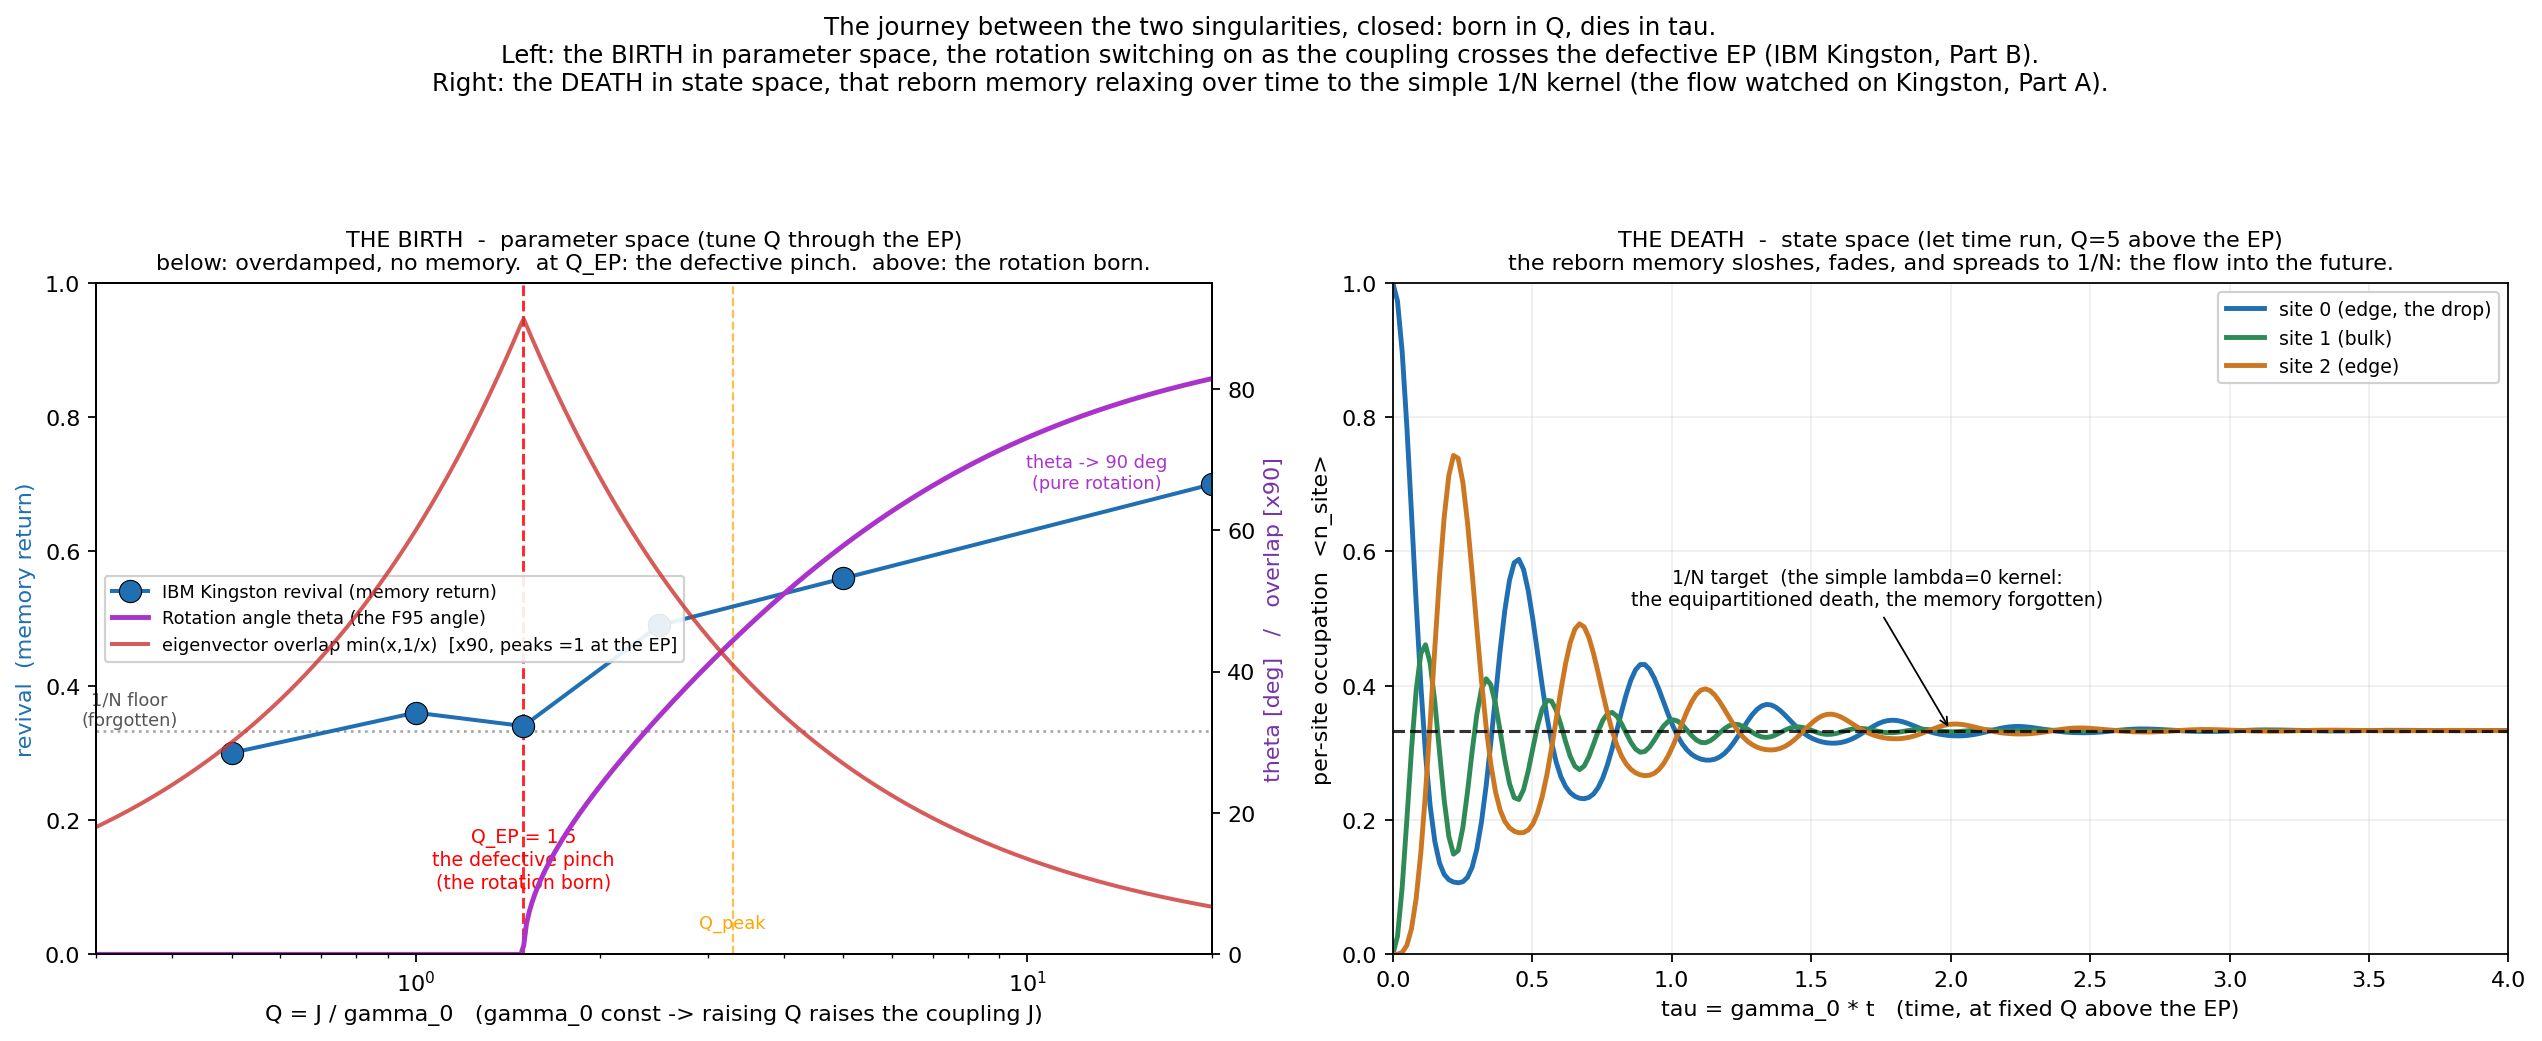
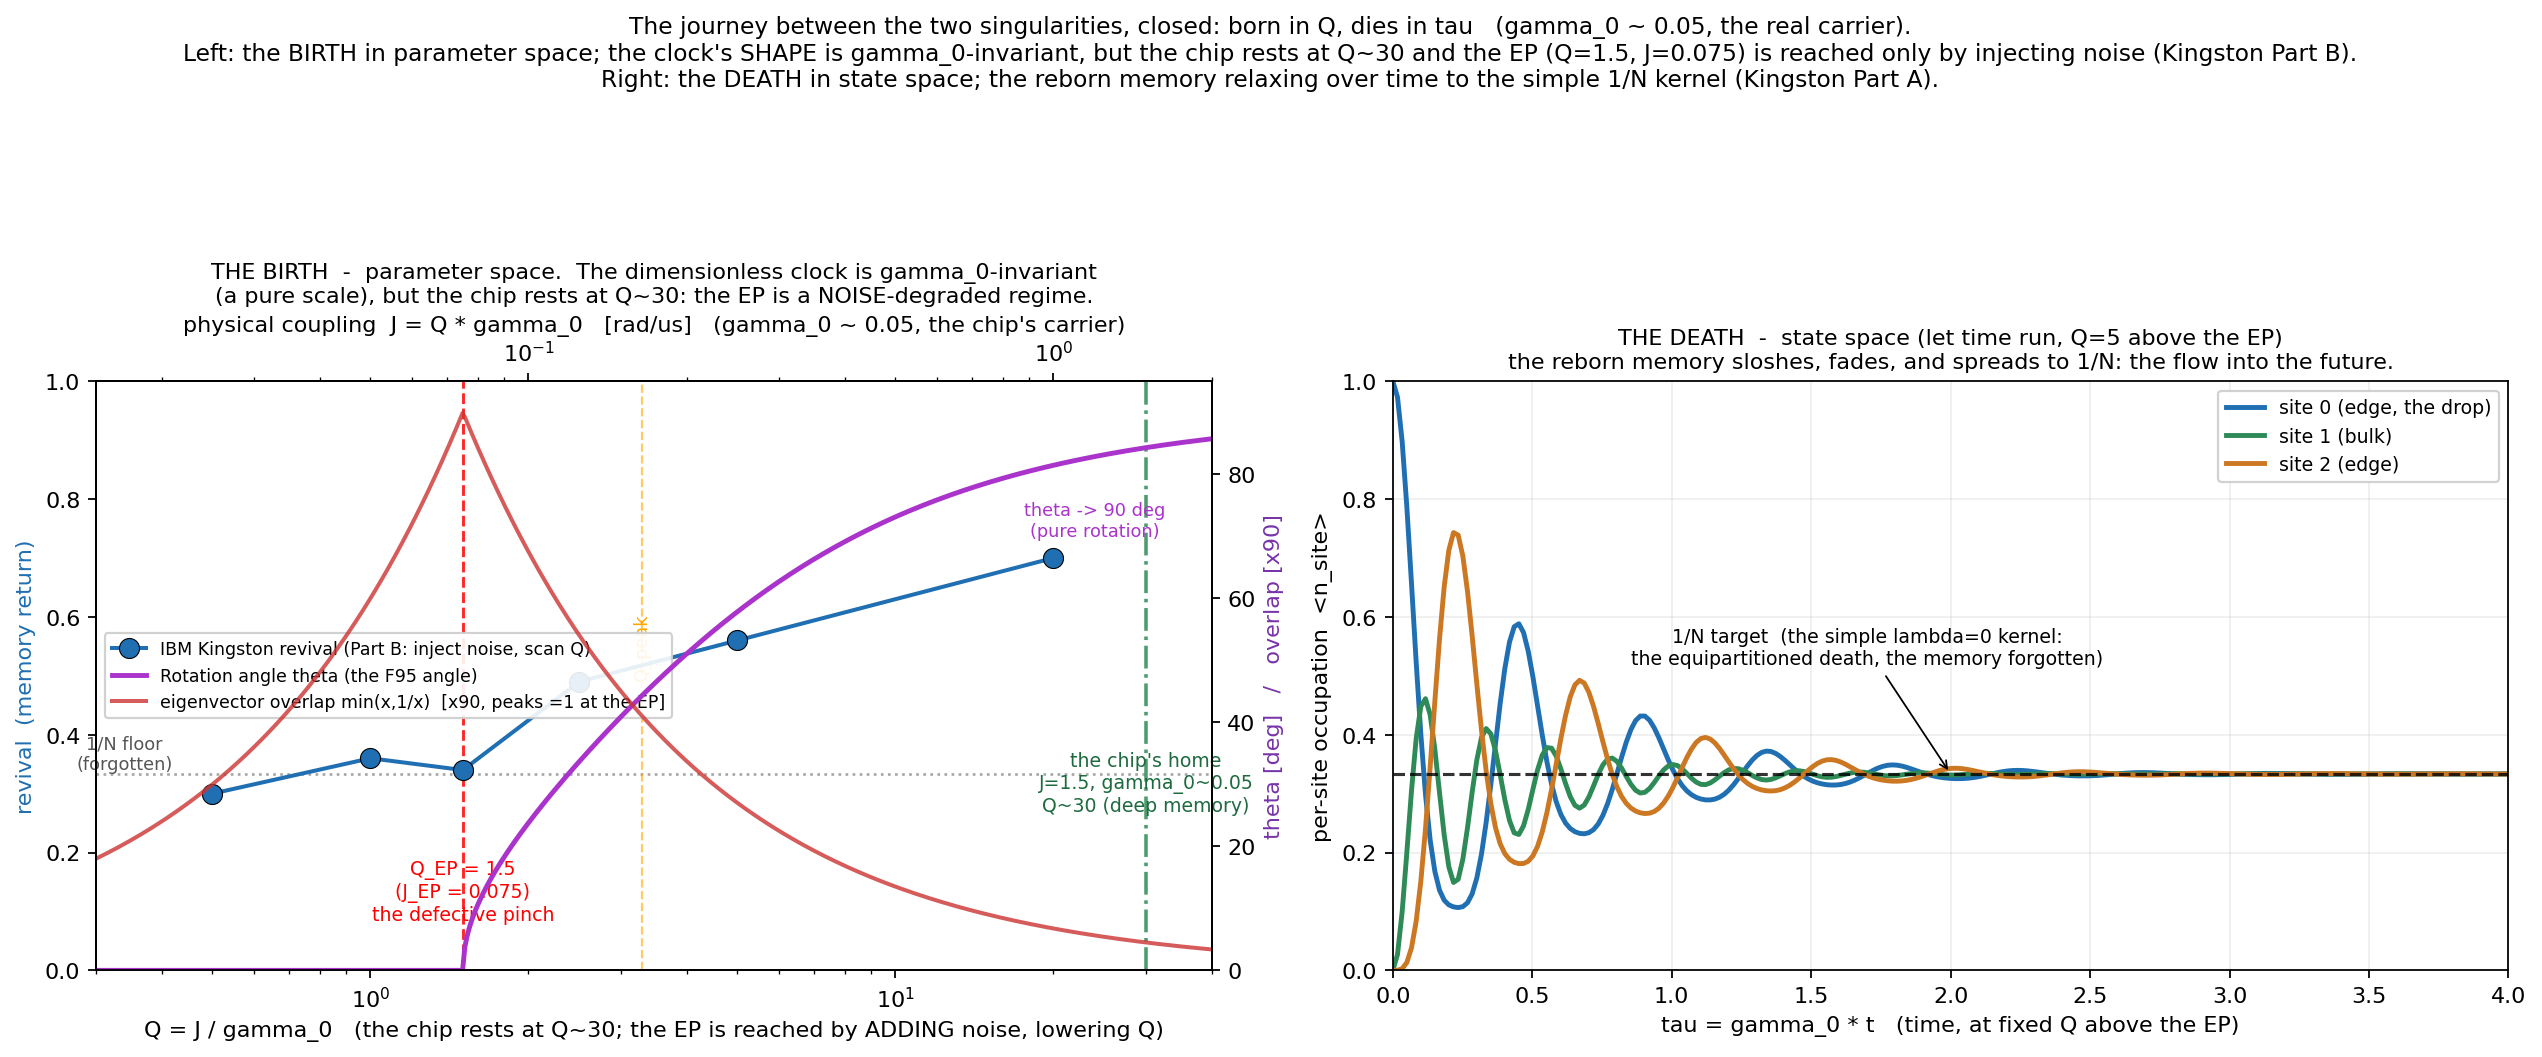
fix: use the real carrier gamma0=0.05 in the journey (the scale gamma0=1 hid)
Tom caught it: gamma0=1.0 was a toy value that buried the physical scale. At
gamma0=1 the coupling J equals Q numerically, so J_EP = Q_EP*gamma0 = 1.5 lands
exactly on the chip's coupling J=1.5 and reads falsely as "the chip sits on the
EP". With the real carrier gamma0~0.05: J_EP = 0.075, and the chip (J=1.5) sits
at Q ~ 30, deep above the EP. The chip lives in the deep-memory regime; the EP is
reached only by injecting noise (Part B's downward Q-scan). Verified directly that
the dimensionless clock (theta, overlap, the flow vs tau) is bit-identical at
gamma0=1.0 and 0.05: gamma0 is a pure scale, the journey's SHAPE is carrier-
invariant, only the physical position moves. Figure now carries a physical-J top
axis and marks the chip's home at Q~30; the doc's "Seen again" layer gains the
scale correction and the honest "the chip is not at the EP" seam.

diff --git a/simulations/journey_between_singularities.py b/simulations/journey_between_singularities.py
@@ -5,23 +5,23 @@ THE_FLOW_BETWEEN_TWO_SINGULARITIES says the flow is bracketed by two singulariti
 of DIFFERENT kinds, and that difference is the whole point:
 
   - the EP (the BIRTH): parameter space, at Q_EP = 2/g_eff = 1.5, DEFECTIVE (a Jordan
-    block, the two slow eigenvectors coalesce, the Petermann sensitivity diverges). You
-    reach it by tuning the coupling: gamma_0 is the universal carrier and stays constant,
-    so raising Q = J/gamma_0 means raising J. Below it: overdamped, no memory (the revival
-    sits on the 1/N floor). Above it: the rotation is born, the memory sloshes back.
+    block, the two slow eigenvectors coalesce, the Petermann sensitivity diverges). Below
+    it: overdamped, no memory (the revival sits on the 1/N floor). Above it: the rotation
+    is born, the memory sloshes back.
 
   - the target (the DEATH): state space, the 1/N equipartitioned fixed point, SIMPLE (the
-    lambda = 0 kernel of L). You reach it by letting TIME run at a fixed Q above the EP: the
+    lambda = 0 kernel of L). Reached by letting TIME run at a fixed Q above the EP: the
     reborn memory sloshes, fades, and the excitation spreads to 1/N per site.
 
-So the journey is not a single 1D path. It is born in Q (parameter space, the defective
-EP) and dies in tau (state space, the simple 1/N kernel). This script draws both legs on
-one canvas, with both hardware halves (IBM Kingston, 2026-05-31): Part B (revival vs Q, the
-birth) on the left, Part A (the population flow to 1/N, the death) on the right.
-
-The closed forms sit at the two endpoints; the middle of the second leg is the un-closed-form
-loop. We close the ARC (both legs, both singularities, both hardware halves in one view); the
-deep reading of the middle stays parked, per the experiment doc.
+The carrier gamma_0 is REAL: ~0.05 on the chip, not the toy 1.0. That matters here. Q_EP =
+2/g_eff = 1.5 is gamma_0-invariant (J = Q*gamma_0 cancels it), and so is the whole
+dimensionless clock (theta, the eigenvector overlap, the flow vs tau): gamma_0 is a pure
+SCALE, the journey's SHAPE does not depend on it. But the physical coupling does: J_EP =
+Q_EP*gamma_0 = 0.075, while the chip runs at J = 1.5 rad/us, i.e. Q = J/gamma_0 ~ 30, deep
+above the EP. Setting gamma_0 = 1 hides this by forcing J = Q, which makes J_EP = 1.5
+coincide with the chip's J = 1.5 and falsely reads as "the chip sits on the EP". It does not:
+the chip lives in the deep-memory regime, and the EP is reached only by INJECTING noise
+(Part B pushed Q down from ~30 toward 1.5). That is the important thing the toy value buried.
 
 Produces: simulations/results/journey_between_singularities/journey.png
 """
@@ -39,24 +39,27 @@ if sys.platform == "win32":
     sys.stdout.reconfigure(encoding="utf-8", errors="replace")
 
 # ----------------------------------------------------------------------------------------
-# Leg 1: the birth (parameter space, the Q-axis). The slow-pair effective Liouvillian.
+# The REAL scale. gamma_0 is the chip's carrier (~0.05), not the toy 1.0.
 # ----------------------------------------------------------------------------------------
-G0 = 1.0
-G_EFF = 4.0 / 3.0          # Q_EP = 2/g_eff = 1.5 (the c=2 peak orbit, matching the hardware)
+G0 = 0.05                       # the hardware carrier Gamma_0 ~ 0.05 (the real value)
+G_EFF = 4.0 / 3.0               # Q_EP = 2/g_eff = 1.5, gamma_0-invariant
 Q_EP = 2.0 / G_EFF
-X_PEAK = 2.196910329331    # C2BareDoubledPtfClosedForm resonance peak, in x = Q/Q_EP units
+X_PEAK = 2.196910329331         # C2BareDoubledPtfClosedForm resonance peak, in x = Q/Q_EP units
 Q_PEAK = X_PEAK * Q_EP
+J_HW = 1.5                      # the hardware coupling (rad/us), fixed; Part B injected gamma to scan Q
+Q_HOME = J_HW / G0              # the chip's natural operating point ~ 30 (deep memory, no injection)
 
 
-def l_eff(Q: float) -> np.ndarray:
-    J = Q * G0
-    return np.array([[-2.0 * G0, 1j * J * G_EFF],
-                     [1j * J * G_EFF, -6.0 * G0]], dtype=complex)
+def l_eff(Q: float, gamma0: float = G0) -> np.ndarray:
+    """The slow-pair effective Liouvillian at coupling Q (J = Q*gamma0, threaded honestly)."""
+    J = Q * gamma0
+    return np.array([[-2.0 * gamma0, 1j * J * G_EFF],
+                     [1j * J * G_EFF, -6.0 * gamma0]], dtype=complex)
 
 
-def clock(Q: float):
+def clock(Q: float, gamma0: float = G0):
     """(decay -Re lambda, omega |Im lambda|, theta deg, eigenvector overlap) of the slow mode."""
-    w, V = np.linalg.eig(l_eff(Q))
+    w, V = np.linalg.eig(l_eff(Q, gamma0))
     decay = -w.real
     omega = np.abs(w.imag)
     i = int(np.argmin(decay))                 # the slowest (longest-lived) mode
@@ -70,8 +73,9 @@ HW_Q = np.array([0.5, 1.0, 1.5, 2.5, 5.0, 20.0])
 HW_REV = np.array([0.30, 0.36, 0.34, 0.49, 0.56, 0.70])
 
 # ----------------------------------------------------------------------------------------
-# Leg 2: the death (state space, the tau-axis at a fixed Q above the EP). N=3 single
-# excitation, XY chain under Z-dephasing, the flow to 1/N. (gamma = 1, J = Q, tau = gamma*t.)
+# Leg 2: the death (state space). N=3 single excitation, XY chain under Z-dephasing,
+# the flow to 1/N. Read dimensionlessly (gamma_0-invariant): L'(Q) = -iQ[H_unit,.] +
+# Sum_l(Z_l rho Z_l - rho), tau = gamma_0 * t. (Any gamma_0 gives the same curve vs tau.)
 # ----------------------------------------------------------------------------------------
 I2 = np.eye(2, dtype=complex)
 X = np.array([[0, 1], [1, 0]], dtype=complex)
@@ -117,28 +121,35 @@ def flow_to_target(Q: float, N: int, taus: np.ndarray):
 
 
 def main() -> None:
-    print("=" * 80)
+    print("=" * 84)
     print(f"  THE JOURNEY  gamma0={G0}  g_eff={G_EFF:.4f}  Q_EP={Q_EP:.3f}  Q_peak={Q_PEAK:.3f}")
-    print("=" * 80)
+    print(f"  J_EP = Q_EP*gamma0 = {Q_EP * G0:.4f}   |   chip: J={J_HW} -> Q_home = J/gamma0 = {Q_HOME:.1f}")
+    print("=" * 84)
 
-    # ---- Leg 1: the birth, the full Q-axis to 20 (the stretch the EP scout did not reach) ----
-    print("\n  LEG 1 - the birth (parameter space, Q-axis), the closed-form clock:")
-    print(f"  {'Q':>6} {'x=Q/Q_EP':>9} {'decay':>7} {'omega':>7} {'theta':>7} {'overlap':>8}   regime")
-    Qs_table = [0.3, 0.5, 0.75, 1.0, 1.5, 2.5, Q_PEAK, 5.0, 10.0, 20.0]
-    for Q in Qs_table:
+    # ---- gamma_0-invariance check: the dimensionless clock is identical at 1.0 and 0.05 ----
+    print("\n  gamma_0-INVARIANCE of the clock (theta, overlap) vs Q -- the carrier is a pure scale:")
+    print(f"  {'Q':>6} | {'theta(g0=1.0)':>13} {'theta(g0=0.05)':>14} | {'overlap(1.0)':>12} {'overlap(0.05)':>13}")
+    for Q in (0.75, 1.5, 2.5, 5.0, 20.0):
+        _, _, th1, ov1 = clock(Q, 1.0)
+        _, _, th2, ov2 = clock(Q, 0.05)
+        print(f"  {Q:6.2f} | {th1:13.4f} {th2:14.4f} | {ov1:12.5f} {ov2:13.5f}")
+
+    # ---- Leg 1: the birth, the closed-form clock, with PHYSICAL J alongside Q ----
+    print("\n  LEG 1 - the birth (parameter space). Q, x=Q/Q_EP, physical J=Q*gamma0, the clock:")
+    print(f"  {'Q':>6} {'x':>6} {'J':>7} {'decay':>7} {'omega':>7} {'theta':>7} {'overlap':>8}   regime")
+    for Q in [0.3, 0.5, 0.75, 1.0, 1.5, 2.5, Q_PEAK, 5.0, 10.0, 20.0, Q_HOME]:
         d, w, th, ov = clock(Q)
         x = Q / Q_EP
+        J = Q * G0
         if Q < Q_EP - 1e-9:
-            reg = "overdamped (theta=0, pre-birth)"
+            reg = "overdamped (pre-birth)"
         elif abs(Q - Q_EP) < 1e-6:
-            reg = "THE EP (defective pinch, overlap=1)"
+            reg = "THE EP (defective pinch)"
+        elif abs(Q - Q_HOME) < 1e-6:
+            reg = "<- the chip's natural home (deep memory)"
         else:
-            reg = "rotation born (theta lifts, overlap falls)"
-        print(f"  {Q:6.2f} {x:9.3f} {d:7.3f} {w:7.3f} {th:7.1f} {ov:8.3f}   {reg}")
-
-    print("\n  Part B hardware revival (IBM Kingston, max <n_0> vs Q):")
-    for q, r in zip(HW_Q, HW_REV):
-        print(f"  Q={q:5.1f}  revival={r:.2f}   {'<= 1/N floor (forgotten)' if r < 0.40 else 'memory present'}")
+            reg = "rotation born"
+        print(f"  {Q:6.2f} {x:6.2f} {J:7.4f} {d:7.4f} {w:7.4f} {th:7.1f} {ov:8.3f}   {reg}")
 
     # ---- Leg 2: the death, the flow to 1/N at a representative Q above the EP ----
     N = 3
@@ -146,36 +157,42 @@ def main() -> None:
     taus = np.linspace(0.0, 4.0, 240)
     flow = flow_to_target(Q_death, N, taus)
     print(f"\n  LEG 2 - the death (state space, tau-axis), N={N}, Q={Q_death} (above the EP):")
-    print(f"  {'tau':>6} " + " ".join(f"<n{l}>" for l in range(N)))
     for tau in (0.0, 0.2, 0.5, 1.0, 2.0, 4.0):
         j = int(np.argmin(np.abs(taus - tau)))
-        print(f"  {taus[j]:6.2f} " + " ".join(f"{flow[l, j]:5.3f}" for l in range(N)))
-    print(f"  target 1/N = {1.0 / N:.4f} (every site converges here: the equipartitioned death)")
+        print(f"  tau={taus[j]:5.2f}  " + " ".join(f"<n{l}>={flow[l, j]:5.3f}" for l in range(N)))
+    print(f"  target 1/N = {1.0 / N:.4f}  (the chip's home Q~{Q_HOME:.0f} sloshes far longer, same arc)")
 
     # ====================================================================================
     # The figure: the two legs on one canvas
     # ====================================================================================
-    fig, (axL, axR) = plt.subplots(1, 2, figsize=(16, 6.5))
+    fig, (axL, axR) = plt.subplots(1, 2, figsize=(16, 6.6))
 
-    # ---- Panel A (left): the birth, parameter space, the Q-axis ----
-    Qc = np.logspace(np.log10(0.3), np.log10(20.0), 400)
+    # ---- Panel A (left): the birth, parameter space, the Q-axis (to the chip's home ~30) ----
+    Qc = np.logspace(np.log10(0.3), np.log10(40.0), 500)
     theta = np.array([clock(Q)[2] for Q in Qc])
     overlap = np.array([clock(Q)[3] for Q in Qc])
 
     axL.axhline(1.0 / 3.0, color="gray", ls=":", lw=1.2, alpha=0.7)
-    axL.plot(HW_Q, HW_REV, "o-", color="#1F6FB2", lw=1.8, markersize=10, markeredgecolor="black",
-             markeredgewidth=0.5, label="IBM Kingston revival (memory return)", zorder=5)
+    axL.plot(HW_Q, HW_REV, "o-", color="#1F6FB2", lw=1.8, markersize=9, markeredgecolor="black",
+             markeredgewidth=0.5, label="IBM Kingston revival (Part B: inject noise, scan Q)", zorder=5)
     axL.annotate("1/N floor\n(forgotten)", (0.34, 0.335), fontsize=8, color="#555", ha="center", va="bottom")
     axL.set_xscale("log")
-    axL.set_xlim(0.3, 20)
+    axL.set_xlim(0.3, 40)
     axL.set_ylim(0.0, 1.0)
-    axL.set_xlabel("Q = J / gamma_0   (gamma_0 const -> raising Q raises the coupling J)")
+    axL.set_xlabel("Q = J / gamma_0   (the chip rests at Q~30; the EP is reached by ADDING noise, lowering Q)")
     axL.set_ylabel("revival  (memory return)", color="#1F6FB2")
     axL.axvline(Q_EP, color="red", ls="--", lw=1.3, alpha=0.85)
-    axL.axvline(Q_PEAK, color="orange", ls="--", lw=1.0, alpha=0.7)
-    axL.annotate("Q_EP = 1.5\nthe defective pinch\n(the rotation born)", (1.5, 0.10), fontsize=8.5,
+    axL.axvline(Q_PEAK, color="orange", ls="--", lw=1.0, alpha=0.6)
+    axL.axvline(Q_HOME, color="#2E8B57", ls="-.", lw=1.6, alpha=0.85)
+    axL.annotate("Q_EP = 1.5\n(J_EP = 0.075)\nthe defective pinch", (1.5, 0.085), fontsize=8.5,
                  color="red", ha="center")
-    axL.annotate("Q_peak", (Q_PEAK, 0.04), fontsize=8, color="orange", ha="center")
+    axL.annotate("Q_peak", (Q_PEAK, 0.50), fontsize=8, color="orange", ha="center", rotation=90)
+    axL.annotate("the chip's home\nJ=1.5, gamma_0~0.05\nQ~30 (deep memory)", (30, 0.27), fontsize=8.5,
+                 color="#1d6b3f", ha="center")
+
+    # physical coupling J on a secondary top axis: J_EP=0.075 vs the chip's J=1.5 both visible
+    secax = axL.secondary_xaxis("top", functions=(lambda q: q * G0, lambda j: j / G0))
+    secax.set_xlabel("physical coupling  J = Q * gamma_0   [rad/us]   (gamma_0 ~ 0.05, the chip's carrier)")
 
     axLt = axL.twinx()
     axLt.plot(Qc, theta, "-", color="#AA33CC", lw=2.2, label="Rotation angle theta (the F95 angle)")
@@ -183,13 +200,13 @@ def main() -> None:
               label="eigenvector overlap min(x,1/x)  [x90, peaks =1 at the EP]")
     axLt.set_ylabel("theta [deg]   /   overlap [x90]", color="#7733AA")
     axLt.set_ylim(0, 95)
-    axLt.annotate("theta -> 90 deg\n(pure rotation)", (13.0, 66), fontsize=8, color="#AA33CC", ha="center")
+    axLt.annotate("theta -> 90 deg\n(pure rotation)", (24.0, 70), fontsize=8, color="#AA33CC", ha="center")
 
     lA, labA = axL.get_legend_handles_labels()
     lAt, labAt = axLt.get_legend_handles_labels()
-    axL.legend(lA + lAt, labA + labAt, loc="center left", fontsize=8, framealpha=0.9)
-    axL.set_title("THE BIRTH  -  parameter space (tune Q through the EP)\n"
-                  "below: overdamped, no memory.  at Q_EP: the defective pinch.  above: the rotation born.",
+    axL.legend(lA + lAt, labA + labAt, loc="center left", fontsize=7.8, framealpha=0.9)
+    axL.set_title("THE BIRTH  -  parameter space.  The dimensionless clock is gamma_0-invariant\n"
+                  "(a pure scale), but the chip rests at Q~30: the EP is a NOISE-degraded regime.",
                   fontsize=10)
 
     # ---- Panel B (right): the death, state space, the tau-axis ----
@@ -212,13 +229,12 @@ def main() -> None:
     axR.grid(True, alpha=0.2)
 
     fig.suptitle(
-        "The journey between the two singularities, closed: born in Q, dies in tau.\n"
-        "Left: the BIRTH in parameter space, the rotation switching on as the coupling crosses the defective EP "
-        "(IBM Kingston, Part B).\n"
-        "Right: the DEATH in state space, that reborn memory relaxing over time to the simple 1/N kernel "
-        "(the flow watched on Kingston, Part A).",
-        y=1.0, fontsize=11)
-    plt.tight_layout(rect=[0, 0, 1, 0.92])
+        "The journey between the two singularities, closed: born in Q, dies in tau   (gamma_0 ~ 0.05, the real carrier).\n"
+        "Left: the BIRTH in parameter space; the clock's SHAPE is gamma_0-invariant, but the chip rests at Q~30 and the "
+        "EP (Q=1.5, J=0.075) is reached only by injecting noise (Kingston Part B).\n"
+        "Right: the DEATH in state space; the reborn memory relaxing over time to the simple 1/N kernel (Kingston Part A).",
+        y=1.0, fontsize=10.5)
+    plt.tight_layout(rect=[0, 0, 1, 0.90])
 
     out_dir = Path(__file__).parent / "results" / "journey_between_singularities"
     out_dir.mkdir(parents=True, exist_ok=True)

diff --git a/experiments/THE_FLOW_BETWEEN_TWO_SINGULARITIES.md b/experiments/THE_FLOW_BETWEEN_TWO_SINGULARITIES.md
@@ -300,23 +300,20 @@ flow's own slowest mode. The flow's slowest used rate is on the even ladder and 
 flow's memory" conflated the two. (Probe: state-based parity propagation, this session, ρ(t)
 decomposed by depth/n_XY into even versus odd weight.)
 
-## Seen again 2026-06-03: the arc closed as one picture
+## Seen again 2026-06-03: the arc closed as one picture (and the scale made honest)
 
 Returning with the telescope built (the six-axis dimension navigator), the two singularities
 finally sit in one frame, and the reason they never fit on a single line turns out to be the
 whole point: they live in different spaces.
 
-The birth is in parameter space. Hold γ₀ fixed, it is the universal carrier and does not move,
-and raise the coupling J, so Q = J/γ₀ climbs. Below Q_EP = 1.5 the slow pair is two real decay
-channels, overdamped, no memory: the revival sits on the 1/N floor. At Q_EP the two coalesce
-defectively, the eigenvectors collapse onto one line, the pinch. Above it the rotation is born
-and the revival lifts off. Read all the way to the far end of the hardware sweep (Q = 20), the
-closed form is monotone and complete: the rotation angle θ climbs toward 90° (pure rotation,
-81° at Q = 20), the eigenvector overlap min(x, 1/x) falls back toward 0 (0.075 at Q = 20, the
-two modes re-separating into a clean rotating pair), and the decay stays pinned at 4γ₀. There
-is no second event out there. The EP at Q = 1.5 is the one special point on the whole axis, the
-only place the overlap reaches 1. The "memory grows as J grows" we already knew is the complete
-story for this leg: it grows toward pure rotation.
+The birth is in parameter space, read through the coupling ratio Q = J/γ₀. Below Q_EP = 1.5 the
+slow pair is two real decay channels, overdamped, no memory: the revival sits on the 1/N floor.
+At Q_EP the two coalesce defectively, the eigenvectors collapse onto one line, the pinch. Above
+it the rotation is born and the revival lifts off. The closed form is monotone and complete: the
+rotation angle θ climbs toward 90° (pure rotation), the eigenvector overlap min(x, 1/x) falls
+back toward 0 (the two modes re-separating into a clean rotating pair), and the decay pins at
+4γ₀. There is no second event out there. The EP at Q = 1.5 is the one special point on the whole
+axis, the only place the overlap reaches 1.
 
 The death is in state space. Now fix Q above the EP and let time run. The reborn memory sloshes
 site to site (site 0 to the far end and back), the revival fades, and the per-site occupation
@@ -325,11 +322,26 @@ asymptotically. The forgetting.
 
 So the journey is born in Q and dies in τ. The two singularities are of different kinds because
 they are of different spaces: a defective pinch in the parameter you tune, a simple sink in the
-state that time uncovers. The telescope reads each leg as its own eyepiece, the birth through
-`--axis ep` (the clock, the rotation hand lifting off the Takt axis) and the death through
-`--root flow` (the occupation relaxing to 1/N). [The journey, both legs and both hardware halves
-in one view](../simulations/results/journey_between_singularities/journey.png): Part B (the
-revival switching on across the EP) on the left, Part A (the flow into 1/N) on the right.
+state that time uncovers.
+
+A scale correction, and it matters. The carrier γ₀ is real: about 0.05 on the chip, not 1, and
+the difference pulls two things apart. The dimensionless clock is γ₀-invariant: θ, the overlap,
+and the flow against τ = γ₀t are bit-identical at γ₀ = 1 and γ₀ = 0.05 (checked directly). γ₀ is
+a pure scale; the journey's shape does not depend on the carrier, only its rate does. But the
+physical coupling does: J_EP = Q_EP·γ₀ = 0.075, while the chip runs at J = 1.5, so its natural
+ratio is Q ≈ 30, deep above the EP. The chip lives in the deep-memory regime; the EP is reached
+only by injecting noise, which is exactly what the hardware did (Part B added dephasing to push
+Q down from its natural home toward 1.5). The honest seam: a toy γ₀ = 1 forces J = Q, which
+slides J_EP onto 1.5, right at the chip's own coupling, and reads falsely as "the chip sits on
+the EP." It does not. The EP is a noise-degraded place the system has to be driven down into, not
+where it rests.
+
+The telescope reads each leg as its own eyepiece, the birth through `--axis ep` (the clock, the
+rotation hand lifting off the Takt axis) and the death through `--root flow` (the occupation
+relaxing to 1/N). [The journey, both legs and both hardware halves in one
+view](../simulations/results/journey_between_singularities/journey.png): Part B (the revival
+switching on as the injected noise is dialed back) on the left, with the physical coupling J
+drawn alongside Q and the chip's home marked at Q ≈ 30; Part A (the flow into 1/N) on the right.
 
 What is closed here is the arc as a picture: both legs drawn, both confirmed on Kingston, the
 closed forms sitting at the two endpoints and the un-closed-form loop in the middle of the